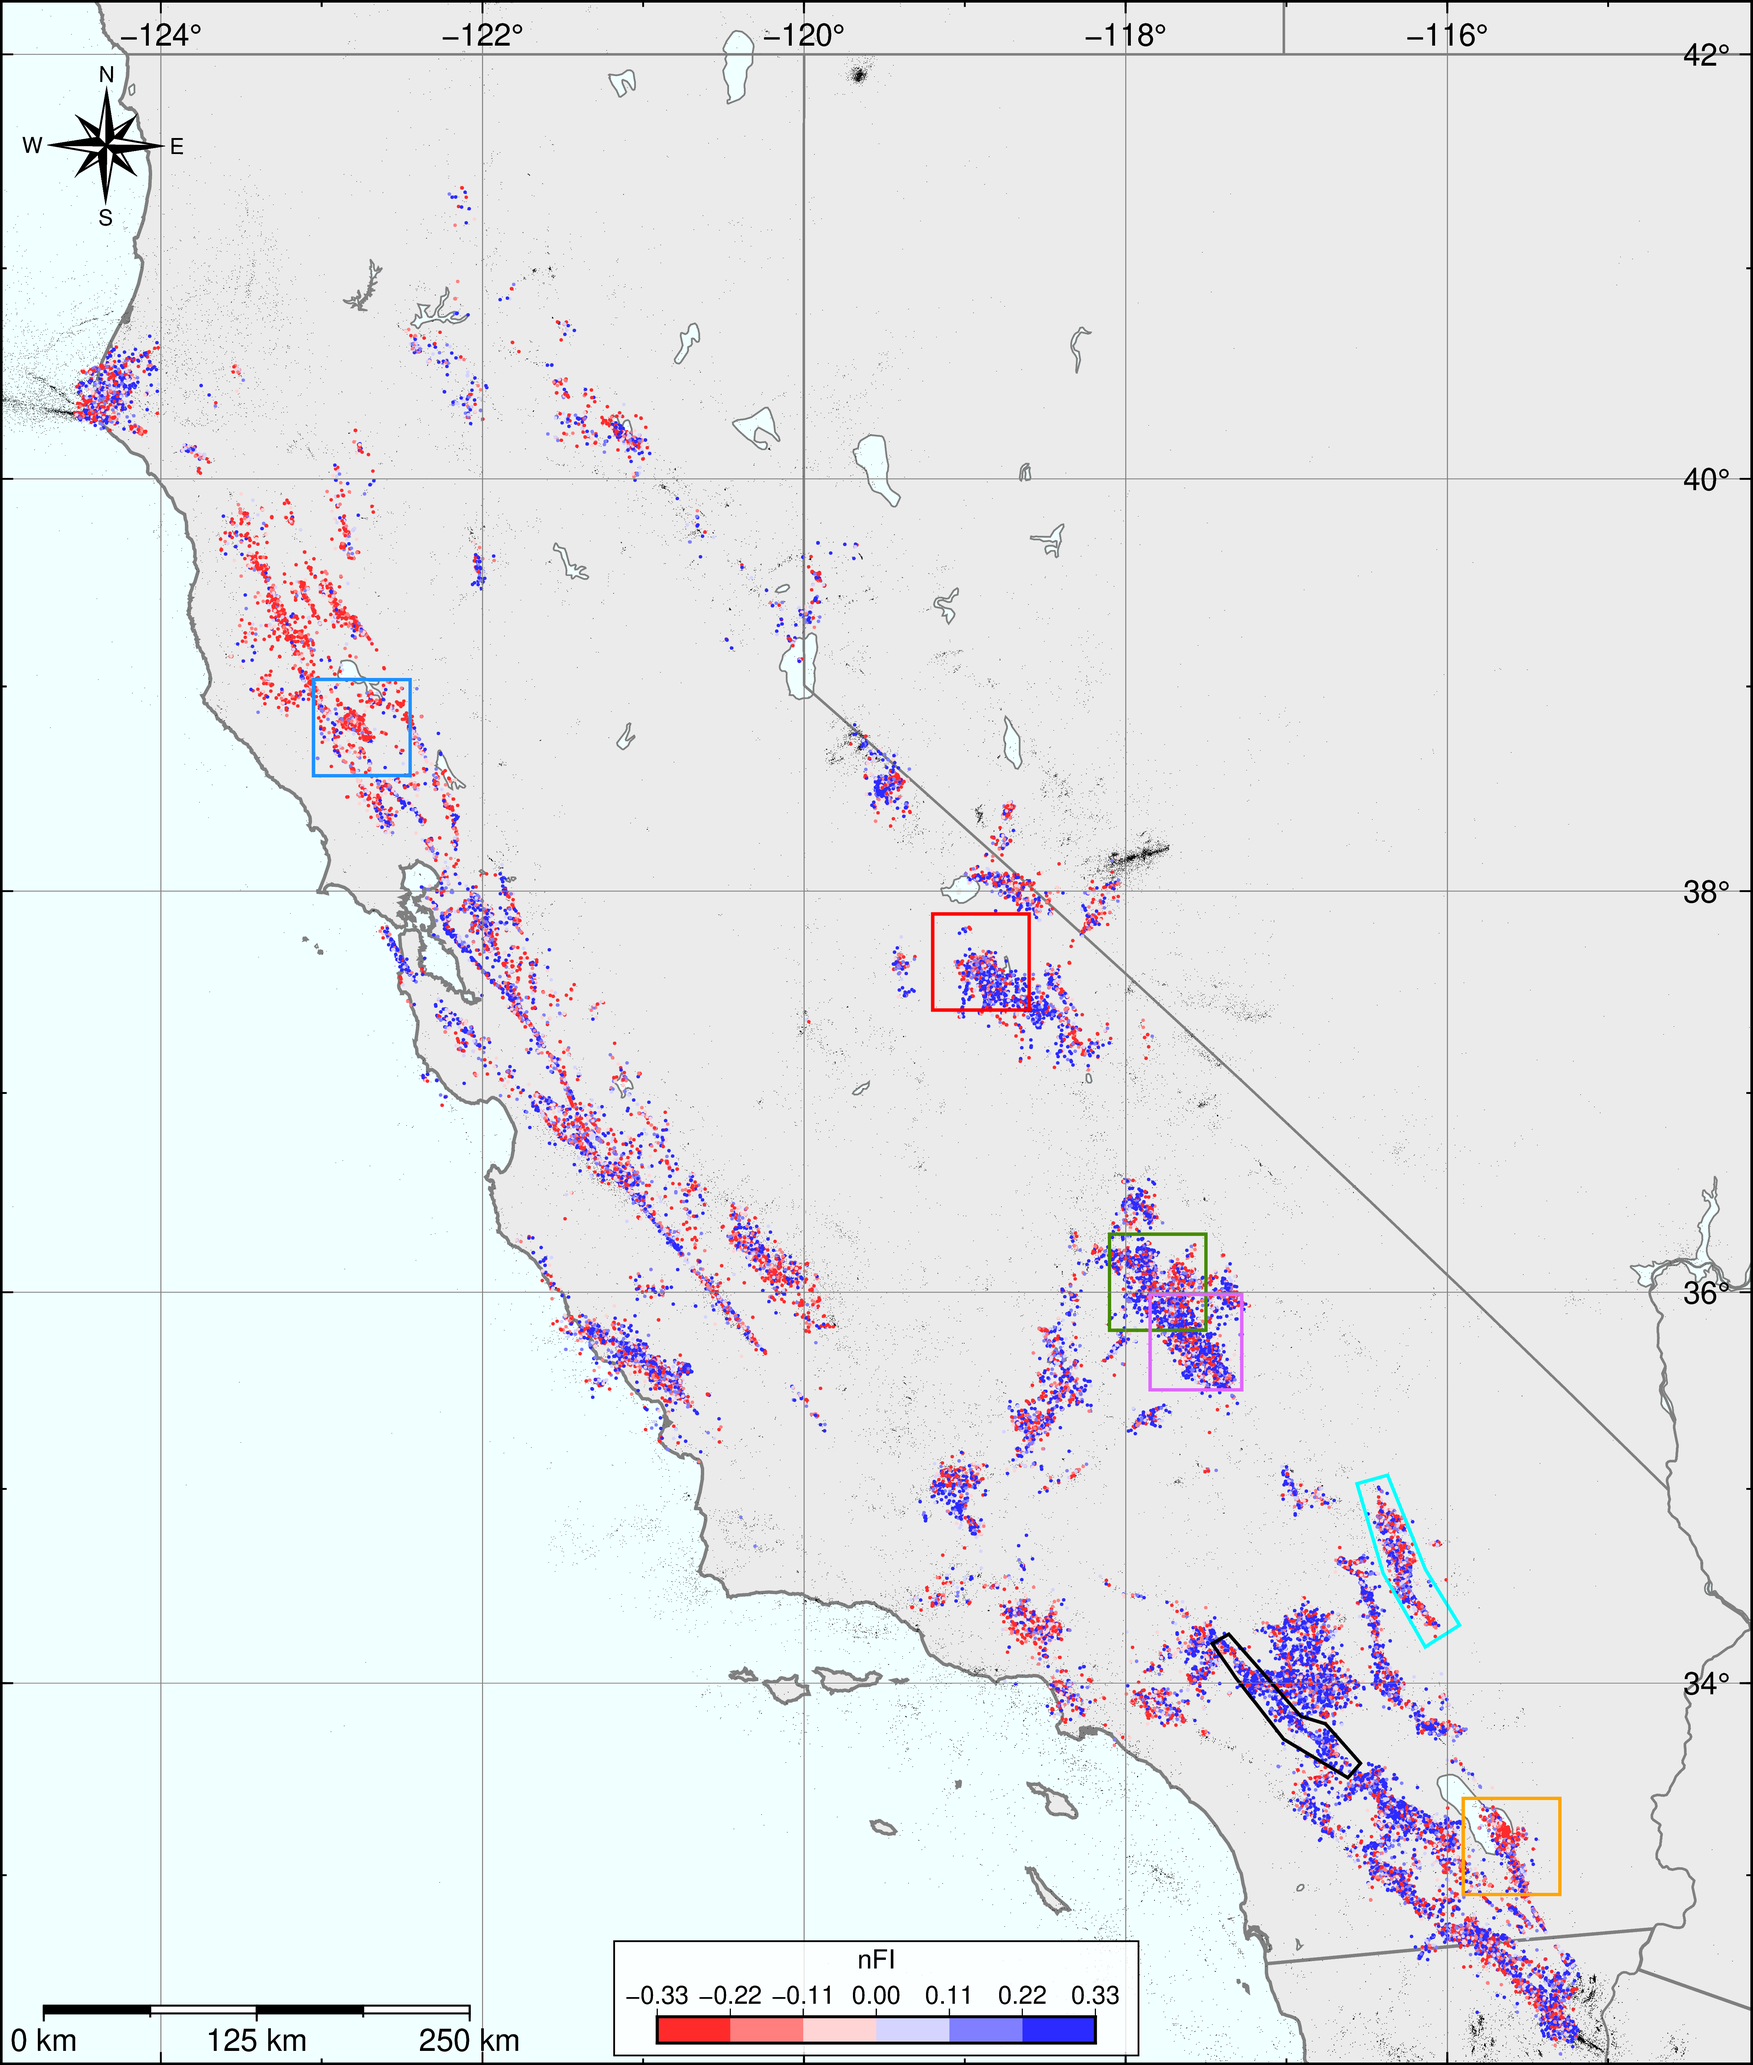
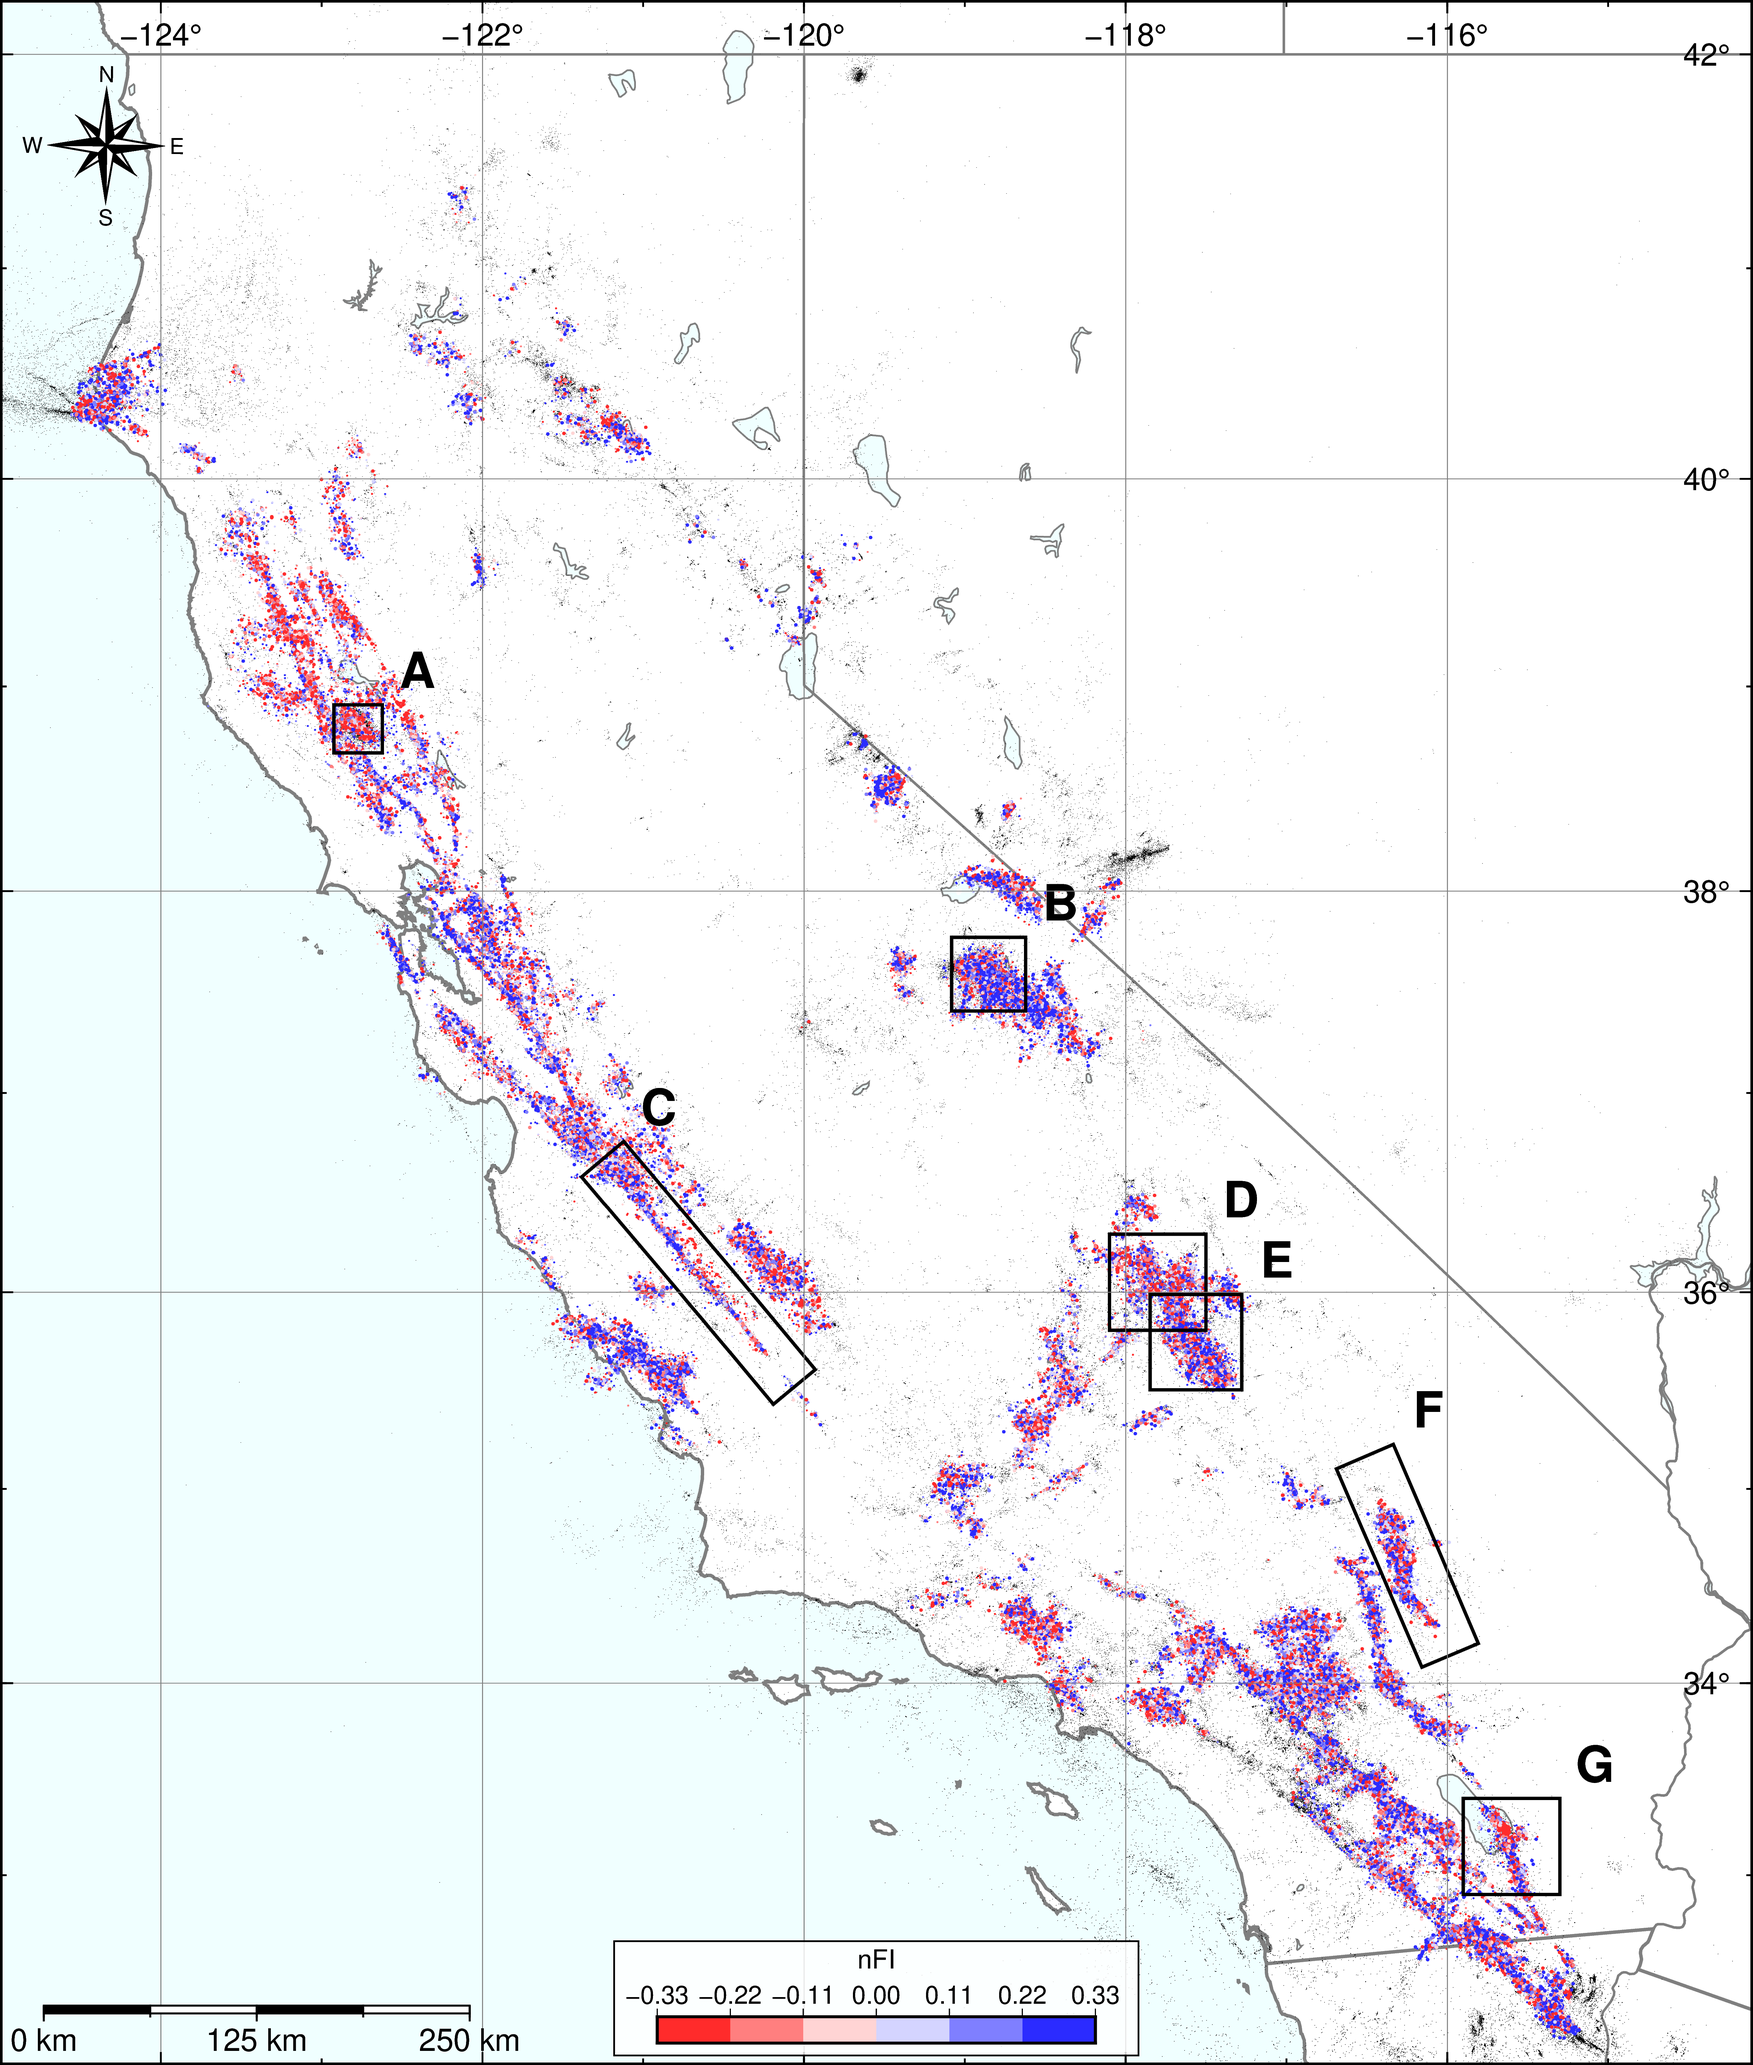
Website update

diff --git a/_projects/py-nfi.md b/_projects/py-nfi.md
@@ -1,0 +1,20 @@
+---
+layout: page
+title: py-nfi
+description: Normalized frequency index (nFI) computation for earthquake source spectra
+img: assets/img/mammoth.png  # optional
+importance: 1  # controls ordering
+category: research  # or whatever category you use
+---
+
+Compute the normalized frequency index (nFI) from earthquake spectra. nFI is a data-driven measure of the relative high-frequency content of a seismic source, providing an observation-based alternative to stress-drop estimation for characterizing source behavior at high frequencies.
+
+This is an active project on GitHub, <a href="https://github.com/ivandevert/py-nfi">py-nfi</a>.
+
+---
+
+Related projects:
+
+<a href="{{ site.baseurl }}/projects/california_nfi/">California nFI</a>
+
+<a href="{{ site.baseurl }}/projects/ridgecrest_nfi/">Ridgecrest nFI</a>

diff --git a/_projects/california_nfi.md b/_projects/california_nfi.md
@@ -1,9 +1,9 @@
 ---
 layout: page
 title: California nFI
-description: Quantifying relative high-frequency enrichment of earthquakes
+description: Quantifying relative high-frequency enrichment of California earthquakes
 img: assets/img/ca_map.png  # optional
-importance: 1  # controls ordering
+importance: 2  # controls ordering
 category: research  # or whatever category you use
 ---
 

diff --git a/_projects/ridgecrest_nfi.md b/_projects/ridgecrest_nfi.md
@@ -3,7 +3,7 @@ layout: page
 title: Ridgecrest nFI
 description: Quantifying relative high-frequency enrichment of earthquakes in Ridgecrest
 img: assets/img/ridgecrest_nfi.png  # optional
-importance: 2  # controls ordering
+importance: 3  # controls ordering
 category: research  # or whatever category you use
 ---
 
